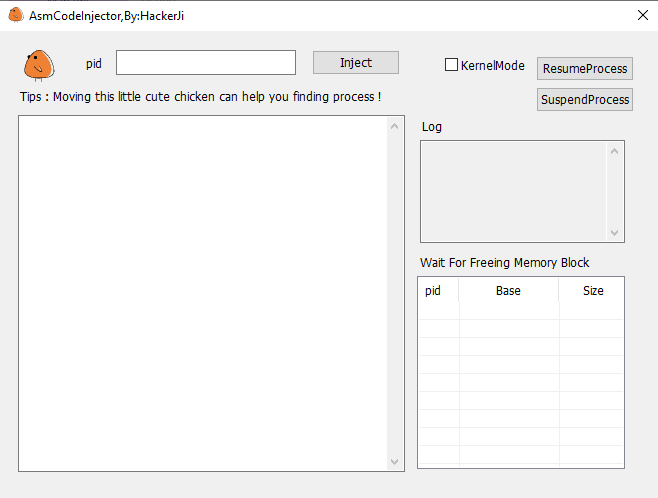
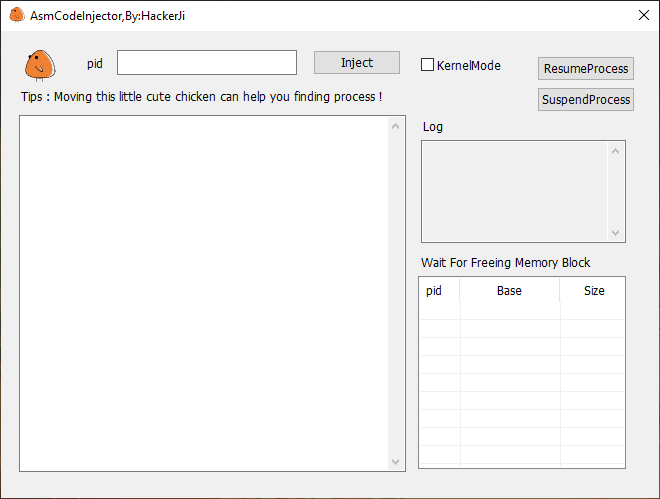
change interface image

diff --git a/README-zh.md b/README-zh.md
@@ -12,7 +12,7 @@
 
 ## 界面展示
 <div align="left">
-     <img  src="img/interface.png">
+     <img  src="img/interface_cn.png">
 </div>
 
 ## 构建环境
